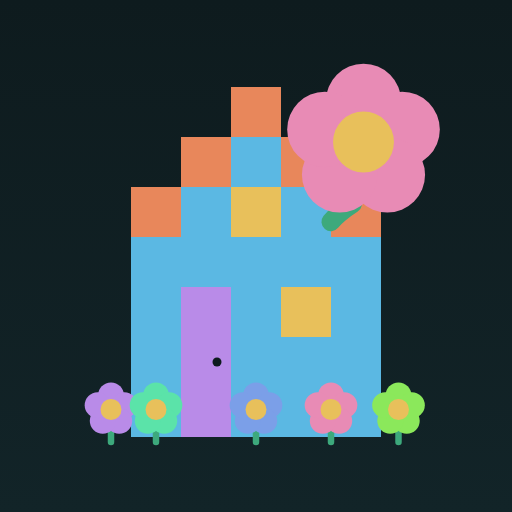
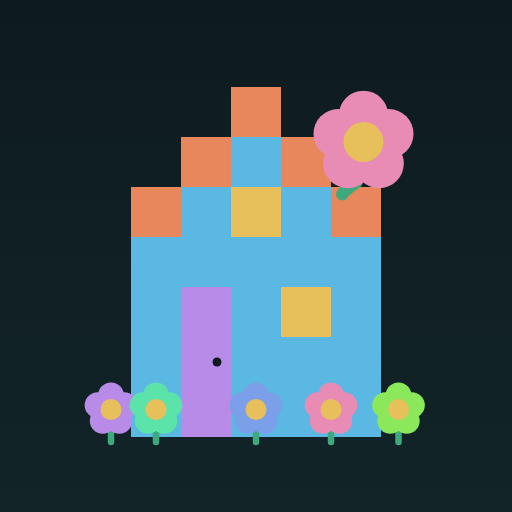
Icône : rétablit la taille d'origine de la fleur du toit
Elle avait grossi en même temps que la grille agrandie ; ramenée à
un diamètre proche de la version fournie (~100px sur 512). Bump du
cache SW.

Changed region(s): [[0.5625, 0.125, 0.875, 0.4688]]

diff --git a/sw.js b/sw.js
@@ -2,7 +2,7 @@
    Avantage : chaque push sur GitHub met l'app à jour dès la prochaine
    ouverture avec connexion, et l'app reste utilisable hors ligne. */
 
-const CACHE = "maison-v10";
+const CACHE = "maison-v11";
 const ASSETS = [
   "./",
   "./index.html",